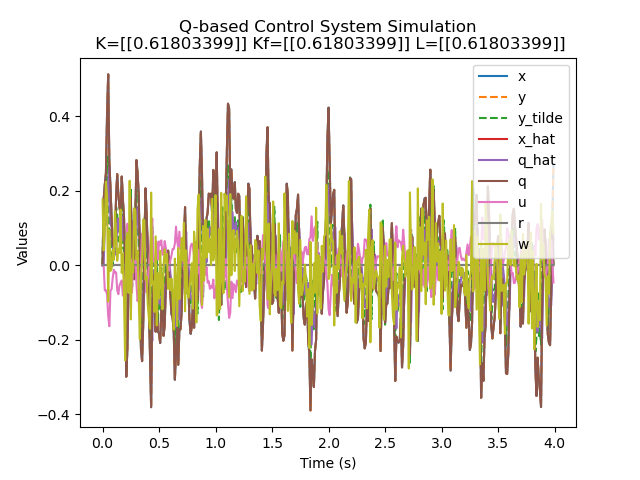
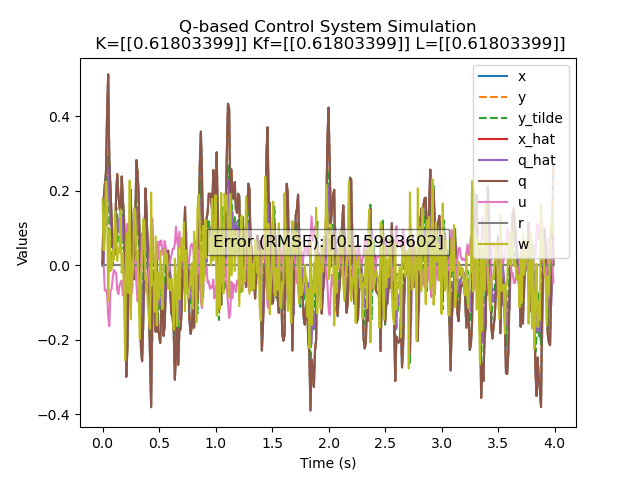
Delayed absolute estimate system, not yet tested for sin ref

Changed region(s): [[0.3125, 0.4688, 0.7188, 0.5312]]

diff --git a/control_sys.py b/control_sys.py
@@ -5,6 +5,8 @@ import scipy as sp
 import matplotlib.pyplot as plt
 import control as ct
 
+import simple_functions as sf
+
 save_figs = True
[1 lines of base64/hex data omitted]
 
@@ -31,30 +33,38 @@ class ControlSystem:
         self.y = np.zeros((self.time_length,1))
         self.x = np.zeros((self.time_length,1))
 
-        np.random.seed(0) 
-        self.w = np.random.normal(0, 0.1, (self.time_length,1)) # process noise
+        #Virtual states for delays 
+        self.x_s = np.zeros_like(self.x_hat)
+        self.x_a = np.zeros_like(self.x_hat)
 
+        np.random.seed(0) 
+        #self.w = np.random.normal(0, 0.1, (self.time_length,1)) # process noise
+        #step disturbance into state
+        self.w = np.zeros((self.time_length,1))
+
+        self.v = np.zeros((self.time_length,1)) # measurement noise
+        self.start_dist = self.time_length//2
+        self.dist_timesteps = range(self.start_dist, self.start_dist+30)
+        for i in self.dist_timesteps:
+            self.v[i] = self.v[i]+0.1
 
         self.q_hat = np.zeros((self.time_length,1))
         self.q = np.zeros((self.time_length,1))
 
         self.ref_type = ref_type
         if self.ref_type == 'sin':
-            self.r = np.sin(self.timeseires)
+            #self.r = np.sin(self.timeseires)
+            self.r = np.sin(self.timeseires).reshape(-1, 1)
         elif self.ref_type == 'null':
             self.r = np.zeros((self.time_length,1))
 
-
-        self.delta_r = np.zeros_like(self.r)
-        for i in range(1, len(self.r)):
-            self.delta_r[i] = self.r[i] - self.r[i-1]
-        print('delta_r shape:', self.delta_r.shape)
 
 
         #Calculate control and sensor gains
         #TODO: Calculated gains give worse result than 1?
         self.Q=np.eye(np.shape(self.x[0])[0])  #TODO: Check dimensions
-        self.R=np.eye(np.shape(self.u[0])[0])
+        tune_R=0.1
+        self.R=tune_R*np.eye(np.shape(self.u[0])[0])
 
         # Calculate the LQR gain
         K, S, E = ct.dlqr(self.A, self.B, self.Q, self.R)
@@ -62,7 +72,8 @@ class ControlSystem:
         # Calculate the Kalman gain
         G=np.eye(np.shape(self.w[0])[0])
         QN = np.eye(np.shape(self.x[0])[0])
-        RN = np.eye(np.shape(self.y[0])[0])
+        tune_RN=0.1
+        RN = tune_RN*np.eye(np.shape(self.y[0])[0])
 
         # QN=1
         # RN=1
@@ -82,14 +93,26 @@ class ControlSystem:
 
         self.L1=L
 
+        #Internal feedback gains for time delay compensation
+        self.L_del=0
+        self.K_del=0
+
+class AnalysisMixin:
+    def rmse(self):
+        sim_dif = self.x - self.r
+        sim_dif_sq = sum(sim_dif**2)
+        sim_mse = sim_dif_sq / self.time_length
+        sim_rmse = np.sqrt(sim_mse)
+        return sim_rmse
+
 class PlotMixin:
-    def plot_all(self, arch):
+    def plot_all(self, arch, custom_text=None):
         plt.title(self.arch_title + ' Control System Simulation\n K=' + str(self.K1) + ' Kf=' + str(self.Kf) + ' L=' + str(self.L1))
         plt.xlabel('Time (s)')
         plt.ylabel('Values')
         plt.plot(self.timeseires, self.x, label='x')
-        plt.plot(self.timeseires, self.y, label='y', linestyle='--')
-        plt.plot(self.timeseires, self.y_tilde, label='y_tilde', linestyle='--')
+        # plt.plot(self.timeseires, self.y, label='y', linestyle='--')
+        # plt.plot(self.timeseires, self.y_tilde, label='y_tilde', linestyle='--')
         if hasattr(self, 'x_hat'):
             plt.plot(self.timeseires, self.x_hat, label='x_hat')
         if hasattr(self, 'q_hat'):
@@ -97,20 +120,76 @@ class PlotMixin:
         if hasattr(self, 'q'):
             plt.plot(self.timeseires, self.q, label='q')
 
-        plt.plot(self.timeseires, self.u, label='u')
-        plt.plot(self.timeseires, self.r, label='r')
-        plt.plot(self.timeseires, self.w, label='w')
+        # plt.plot(self.timeseires, self.u, label='u')
+        # plt.plot(self.timeseires, self.r, label='r')
+        # plt.plot(self.timeseires, self.w, label='w', marker='o', markersize=2, linestyle='None')
 
+        if custom_text:
+            plt.text(0.95, 0.05, custom_text, transform=plt.gca().transAxes,
+                     fontsize=12, verticalalignment='bottom', horizontalalignment='right',
+                     bbox=dict(facecolor='white', alpha=0.5))
         plt.legend()
 
         if save_figs:
-            filename = f"{save_figs_dir}{arch}_plot_all_{self.ref_type}.png"
+            self.K_str = str(self.K1[0]).replace('.', '_')
+            filename = f"{save_figs_dir}{arch}_plot_all_{self.ref_type}_K{self.K_str}.png"
             plt.savefig(filename)
             print(f"Figure saved to {filename}")
 
         plt.show()
 
-    def plot_compare_performance(self, arch):
+    def plot_transient(self, arch, custom_text=None):
+        # plt.title(self.arch_title + ' Control System Simulation\n K=' + str(self.K1) + ' Kf=' + str(self.Kf) + ' L=' + str(self.L1))
+        # plt.xlabel('Time (s)')
+        # plt.ylabel('Values')
+        # plt.plot(self.timeseires[self.start_dist-1:self.start_dist+2], self.x[self.start_dist-1:self.start_dist+2], label='x')
+        # if hasattr(self, 'x_hat'):
+        #     plt.plot(self.timeseires[self.start_dist-1:self.start_dist+2], self.x_hat[self.start_dist-1:self.start_dist+2], label='x_hat')
+        # if hasattr(self, 'q_hat'):
+        #     plt.plot(self.timeseires[self.start_dist-1:self.start_dist+2], self.q_hat[self.start_dist-1:self.start_dist+2], label='q_hat')
+        # plt.plot(self.timeseires[self.start_dist-1:self.start_dist+2], self.u[self.start_dist-1:self.start_dist+2], label='u')
+
+
+            if custom_text:
+                plt.text(0.95, 0.05, custom_text, transform=plt.gca().transAxes,
+                     fontsize=12, verticalalignment='bottom', horizontalalignment='right',
+                     bbox=dict(facecolor='white', alpha=0.5))
+                
+            custom_time = range(self.start_dist-1,self.start_dist+8)
+
+            if self.arch_title == 'X-based':
+                #plot v, y, x_hat, u, x
+                plot_list = [self.v, self.y, self.x_hat, self.u, self.x]
+                plot_labels = ['v', 'y', 'x_hat', 'u', 'x']
+                fig, axs = plt.subplots(len(plot_list), 1, figsize=(10, 8), sharex=True)
+            if  self.arch_title == 'Q-based':
+                #plot v, y, q_hat, u, x
+                plot_list = [self.v, self.y, self.q_hat, self.u, self.x]
+                plot_labels = ['v', 'y', 'q_hat', 'u', 'x']
+                fig, axs = plt.subplots(len(plot_list), 1, figsize=(10, 8), sharex=True)
+            if self.arch_title == 'X-based, Delays':
+                #plot v, y, x_s, x_hat, x_a, u, x
+                plot_list = [self.v, self.y, self.x_s, self.x_hat, self.x_a, self.u, self.x]
+                plot_labels = ['v', 'y', 'x_s', 'x_hat', 'x_a', 'u', 'x']
+                fig, axs = plt.subplots(len(plot_list), 1, figsize=(10, 8), sharex=True)
+
+        
+            for i, (data, label) in enumerate(zip(plot_list, plot_labels)):
+                axs[i].plot(self.timeseires[custom_time], data[custom_time], label=label)
+                axs[i].set_ylabel(label)
+                axs[i].legend('upper right')
+
+            fig.suptitle(self.arch_title + ' Control System Simulation\n K=' + str(self.K1) + ' Kf=' + str(self.Kf) + ' L=' + str(self.L1))
+
+            if save_figs:
+                self.K_str = str(self.K1[0]).replace('.', '_')
+                filename = f"{save_figs_dir}{arch}_plot_transient_{self.ref_type}_K{self.K_str}.png"
+                plt.savefig(filename)
+                print(f"Figure saved to {filename}")
+
+            plt.show()
+
+    def plot_compare_performance(self, arch, custom_text=None):
         plt.title(self.arch_title + ' Control System Simulation\n K=' + str(self.K1) + ' Kf=' + str(self.Kf) + ' L=' + str(self.L1))
         plt.xlabel('Time (s)')
         plt.ylabel('Values')
@@ -119,32 +198,38 @@ class PlotMixin:
         plt.plot(self.timeseires, self.y_tilde, label='y_tilde', linestyle='--')
         plt.plot(self.timeseires, self.r, label='r')
 
+        if custom_text:
+            plt.text(0.95, 0.05, custom_text, transform=plt.gca().transAxes,
+                     fontsize=12, verticalalignment='bottom', horizontalalignment='right',
+                     bbox=dict(facecolor='white', alpha=0.5))
+
         plt.legend()
 
         if save_figs:
-            filename = f"{save_figs_dir}{arch}_compare_performance_{self.ref_type}.png"
+            self.K_str = str(self.K1[0]).replace('.', '_')
+            filename = f"{save_figs_dir}{arch}_compare_performance_{self.ref_type}_K{self.K_str}.png"
             plt.savefig(filename)
             print(f"Figure saved to {filename}")
 
         plt.show()
 
 
-class AbsoluteEstController(ControlSystem, PlotMixin):
+class AbsoluteEstController(ControlSystem, PlotMixin, AnalysisMixin):
     def simulate(self):
         self.arch_title = 'X-based'
         for t in range(0,self.time_length-1):
             #Brain Implementation
             self.y_tilde[t]=self.y[t]-self.C*self.x_hat[t]
             self.x_hat[t+1] = (self.L1*self.y_tilde[t])+(self.A-self.B*self.K1)*self.x_hat[t]+(self.B*self.Kf)*self.r[t]
-            self.u[t+1]=(-self.K2*self.x_hat[t+1])+(self.Kf*self.r[t+1])
+            self.u[t+1]=-(self.K2*self.x_hat[t+1])+(self.Kf*self.r[t+1])
 
             #World
             self.x[t+1]=self.A*self.x[t]+self.B*self.u[t]+self.w[t]
-            self.y[t+1]=self.C*self.x[t+1]
+            self.y[t+1]=self.C*self.x[t+1]+self.v[t+1]
 
             pass
 
-class RelativeEstController(ControlSystem, PlotMixin):
+class RelativeEstController(ControlSystem, PlotMixin, AnalysisMixin):
     def simulate(self):
         self.arch_title = 'Q-based'
         for t in range(0,self.time_length-1):
@@ -155,29 +240,55 @@ class RelativeEstController(ControlSystem, PlotMixin):
 
             #World 
             self.x[t+1]=self.A*self.x[t]+self.B*self.u[t]+self.w[t]
-            self.y[t+1]=C*self.x[t+1]
+            self.y[t+1]=C*self.x[t+1]+self.v[t+1]
 
             self.q[t]=self.x[t]-self.r[t]
         pass
+
+class AbsEstDelayedController(ControlSystem, PlotMixin, AnalysisMixin):
+    def simulate(self, delta_t_s=1, delta_t_a=1):
+        self.arch_title = 'X-based, Delays'
+        for t in range(0,self.time_length-1-(delta_t_s+1+delta_t_a)):
+            ##No ref:
+            #Brain Implementation
+            self.x_s[t+delta_t_s]=self.y[t]-self.C*self.x_hat[t]-self.L_del*self.x_s[t]
+            self.x_hat[t+delta_t_s+1] = (self.L1*self.x_s[t+delta_t_s])+(self.A*self.x_hat[t+delta_t_s])+(self.B*self.x_a[t+delta_t_s])+(self.B*self.Kf)*self.r[t+delta_t_s]
+            self.x_a[t+delta_t_s+1+delta_t_a]=-self.K2*self.x_hat[t+delta_t_s+1]-self.K_del*self.x_a[t+delta_t_s+1]+self.Kf*self.r[t+delta_t_s+1]
+            self.u[t+delta_t_s+1+delta_t_a]= self.x_a[t+delta_t_s+1+delta_t_a]
+
+            #World
+            self.x[t+1]=self.A*self.x[t]+self.B*self.u[t]+self.w[t]
+            self.y[t+1]=self.C*self.x[t+1]+self.v[t+1]
+  
+            pass
 
 
 
 
 #Simulation parameters
-ref_type = 'null' #'sin' or 'null'
 
-A = np.array([1])
+
+A = np.array([0.5])
 B = np.array([1])
 C = np.array([1])
 
 
 #Run simulation
-arch= 'q_based' # or 'q_based'
-if arch == 'x_based':
-    system = AbsoluteEstController(A, B, C, ref_type)
-elif arch == 'q_based':
-    system = RelativeEstController(A, B, C, ref_type)
+ref_types = ['null'] #'sin' or 'null'
+archs= ['x_based_delayed'] #['x_based','q_based', 'x_based_delayed']
+for ref_item in ref_types:
+    print('Running simulation with reference type:', ref_item)
+    for arch_item in archs:
+        print('Running simulation with architecture:', arch_item)
+        if arch_item == 'x_based':
+            system = AbsoluteEstController(A, B, C, ref_item)
+        if arch_item == 'x_based_delayed':
+            system = AbsEstDelayedController(A, B, C, ref_item)    
+        elif arch_item == 'q_based':
+            system = RelativeEstController(A, B, C, ref_item)
 
-system.simulate()
-system.plot_all(arch)
-system.plot_compare_performance(arch)
+        system.simulate()
+        print(arch_item, ref_item, 'RMSE:', system.rmse())
+        #system.plot_all(arch_item, custom_text='Error (RMSE): ' + str(system.rmse()))
+        system.plot_transient(arch_item, custom_text='Error (RMSE): ' + str(system.rmse()))
+        #system.plot_compare_performance(arch_item, custom_text='Error (RMSE): ' + str(system.rmse()))
